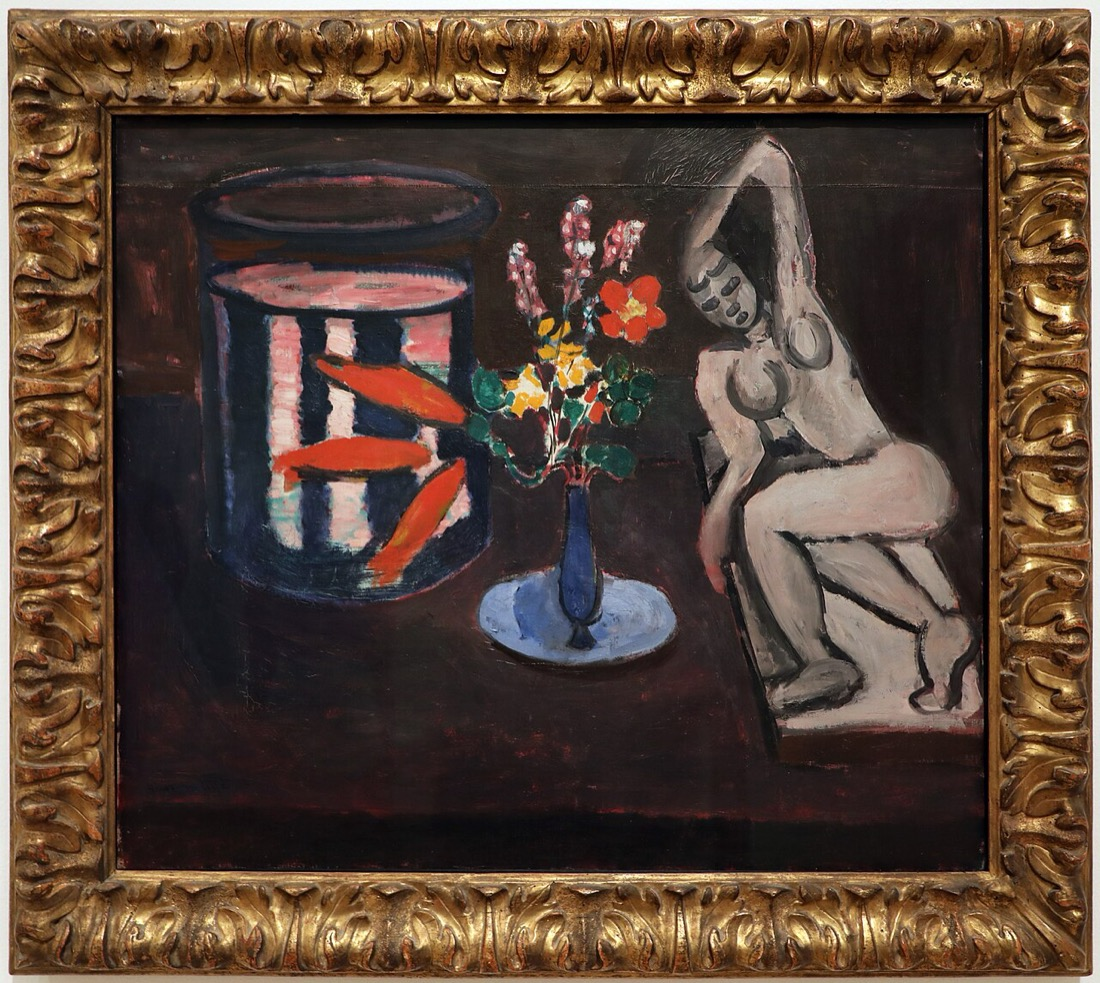
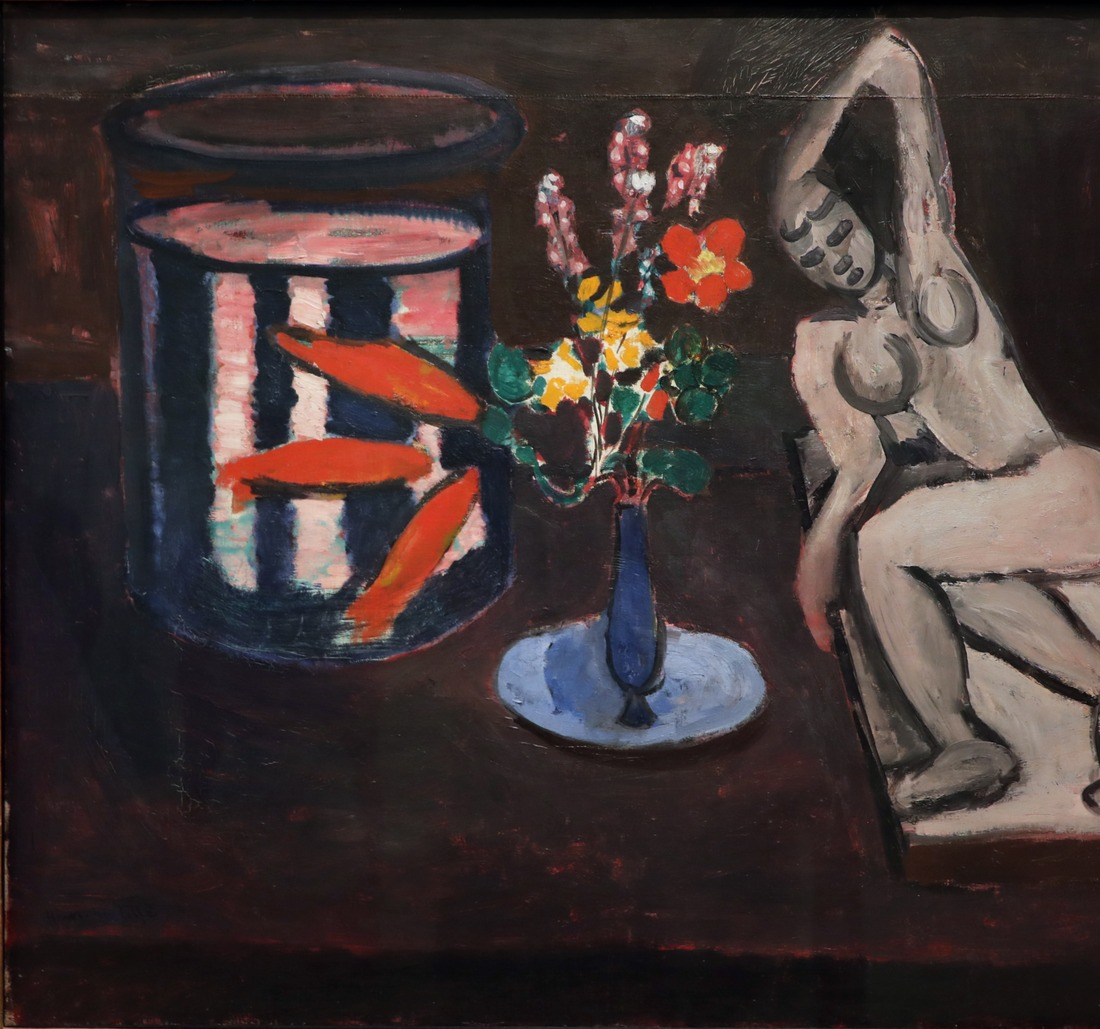
goldfish: replace framed museum photo with frame cropped out (unframed canvas), update aspect 0.894->0.936

diff --git a/src/data/museum.js b/src/data/museum.js
@@ -22,7 +22,7 @@ export const WINGS = [
       blurb: 'Each painting here is one project. Tap any to learn more.', images: [], links: [],
       pieces: [
         { title: 'HelpMynd', artwork: 'Rembrandt - The Return of the Prodigal Son', art: 'prodigal.jpg', artAspect: 1.305, blurb: 'Mental-health platform. Role, stack, reach, and impact.', items: [], images: [], links: [] },
-        { title: 'Museum Portfolio', artwork: 'Henri Matisse - The Goldfish', art: 'goldfish.jpg', artAspect: 0.894, blurb: 'This very museum - an interactive 3D portfolio built in React + Three.js.', items: [], images: [], links: [] },
+        { title: 'Museum Portfolio', artwork: 'Henri Matisse - The Goldfish', art: 'goldfish.jpg', artAspect: 0.936, blurb: 'This very museum - an interactive 3D portfolio built in React + Three.js.', items: [], images: [], links: [] },
         { title: 'Undisclosed Startup App', artwork: 'Salvador Dalí - The Elephants', art: 'elephants.jpg', artAspect: 0.835, blurb: 'Startup app (details to come).', items: [], images: [], links: [] },
         { title: 'Handshake AI Agent', artwork: 'René Magritte - Golconda', art: 'golconda.jpg', artAspect: 0.815, blurb: 'AI agent project.', items: [], images: [], links: [] },
         { title: 'Color Block Jam - Ad Blocker', artwork: 'Edvard Munch - The Scream', art: 'scream.jpg', artAspect: 1.264, blurb: 'Ad-blocking / game project. What it does and how it works.', items: [], images: [], links: [] },
